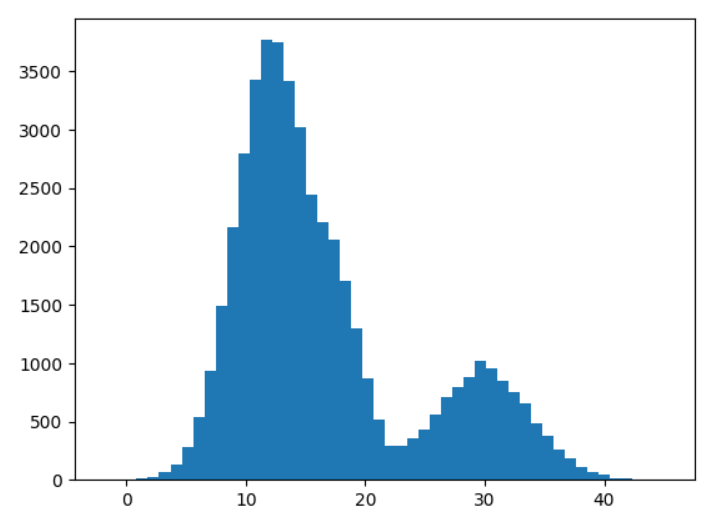
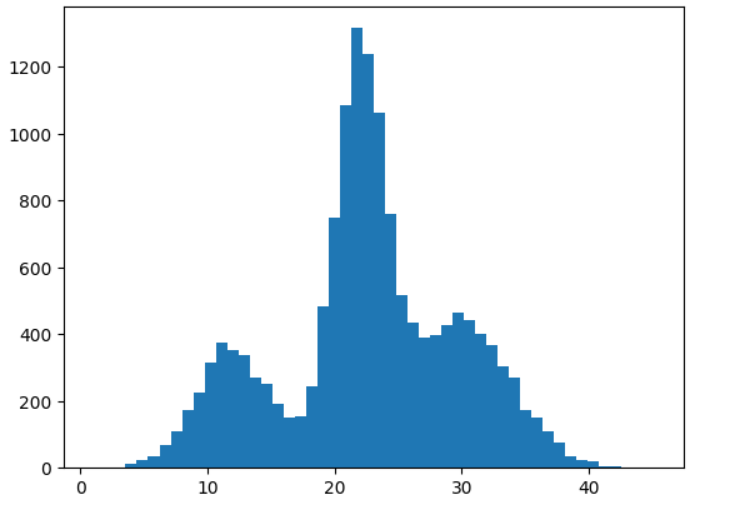
upd

diff --git a/presentations/book.md b/presentations/book.md
@@ -234,7 +234,7 @@ $\{x^{(1)},x^{(2)},…,x^{(m)}\}$
 
 Якщо ваші дані є одновимірними категоріальними, єдиним реальним варіантом для їх візуалізації є використання стовпчастої діаграми. Зверніть увагу, що, виходячи з нашого припущення про те, що порядок точок даних у нашому наборі даних не має значення, єдиною значущою інформацією, якщо ми маємо набір даних типу
 
-$\{cat,dog,dog,rabbit,cat,…\}$
+$\{student,teacher,student,professor,teacher,student,…\}$
 
 буде кількість повторень кожного елемента. Таким чином, ми можемо ефективно узагальнити дані, включивши кількість повторень кожного значення даних (це легко зробити за допомогою класу `collections.Counter`).
 
@@ -243,8 +243,9 @@ $\{cat,dog,dog,rabbit,cat,…\}$
 ```
 import collections
 import matplotlib.pyplot as plt
+import numpy as np
 
-data = np.random.permutation(np.array(["dog"]*10 + ["cat"]*7 + ["rabbit"]*3))
+data = np.random.permutation(np.array(["student"]*15 + ["teacher"]*7 + ["professor"]*3))
 # print(data)
 counts = collections.Counter(data)
 plt.bar(range(len(counts)), list(counts.values()), tick_label=list(counts.keys()))
@@ -263,11 +264,11 @@ plt.bar(range(len(counts)), list(counts.values()), tick_label=list(counts.keys()
 Ось приклад того, як побудувати кругову діаграму:
 
 ```
-data = {"strongly disagree": 5,
-        "slightly disagree": 3,
-        "neutral": 8,
-        "slightly agree": 12,
-        "strongly agree": 9}
+data = {"strongly disagree": 3,
+        "disagree": 8,
+        "neutral": 12,
+        "agree": 11,
+        "strongly agree": 4}
 
 plt.pie(data.values(), labels=data.keys(), autopct='%1.1f%%')
 plt.axis('equal')
@@ -281,10 +282,14 @@ plt.axis('equal')
 
 ```
 np.random.seed(0)
-data = np.concatenate([30 + 4*np.random.randn(10000),
-                       18 + 2*np.random.randn(7000),
-                       12 + 3*np.random.randn(30000)])
+data = np.concatenate([30 + 4*np.random.randn(5000),
+                       22 + 2*np.random.randn(7000),
+                       12 + 3*np.random.randn(3000)])
 plt.hist(data, bins=50)
+
+
+# data = np.concatenate([10 + 5*np.random.randn(10000)])
+# plt.hist(data, bins=50);
 ```
 
 ![histogram](./img/103-3.png)
@@ -298,7 +303,7 @@ plt.hist(data, bins=50)
 
 ```
 x = np.random.randn(1000)
-y = 0.4*x**2 + x + 0.7*np.random.randn(1000)
+y = 0.8*x**3 + x + 1.5*np.random.randn(1000)
 plt.scatter(x,y,s=1)
 ```
 
@@ -311,7 +316,7 @@ plt.scatter(x,y,s=1)
 
 ```
 x = np.random.randn(10000)
-y = 0.4*x**2 + x + 0.7*np.random.randn(10000)
+y = 0.8*x**3 + x + 1.5*np.random.randn(10000)
 #plt.scatter(x,y,s=10)
 
 plt.hist2d(x,y,bins=100);
@@ -339,16 +344,16 @@ plt.plot(x,y)
 
 **Коробкова (Box and whiskers) і скрипкові діаграми (Violin plots) — категоріальні x числові**
 
-Розглянемо простий приклад, де (тільки з вигаданими даними) ми будуємо графік типу домашніх тварин у порівнянні з вагою.
+Розглянемо простий приклад, де (тільки з вигаданими даними) ми будуємо графік учасників навчального процесу та їхній вік.
 
 ```
 import numpy as np
 import matplotlib.pyplot as plt
 import scipy.linalg as la
 
-data= {"dog": 8 + 2*np.random.randn(1000),
-       "cat": 4 + 1*np.random.randn(900),
-       "rabbit": 1 + 0.4*np.random.randn(300)}
+data= {"student": 22 + 1.4*np.random.randn(1000),
+       "teacher": 37 + 2.5*np.random.randn(900),
+       "professor": 65 + 5.5*np.random.randn(300)}
 plt.scatter(np.concatenate([i*np.ones(len(x)) for i,x in enumerate(data.values())]),
             np.concatenate(list(data.values())))
 plt.xticks(range(len(data)), data.keys());
@@ -380,15 +385,15 @@ plt.xticks(range(1,len(data)+1), data.keys())
 
 **Теплова карта (Heatmap) та бульбашкові діаграми (Bubble plots) — категоріальні x категоріальні**
 
-Коли обидва виміри наших 2D-даних є категоріальними, ми маємо ще менше інформації для використання. Знову ж таки, метою буде надання певної інформації про загальну кількість усіх можливих комбінацій між двома наборами даних. Наприклад, розглянемо вигаданий набір даних про тип домашніх тварин та тип будинку:
+Коли обидва виміри наших 2D-даних є категоріальними, ми маємо ще менше інформації для використання. Знову ж таки, метою буде надання певної інформації про загальну кількість усіх можливих комбінацій між двома наборами даних. Наприклад, розглянемо вигаданий набір даних про учасників навчального процесу та їхній улюблений спосіб навчання
 
 ```
-types = np.array([('dog', 'house'), ('dog', 'appt'), 
-                  ('cat', 'house'), ('cat', 'appt'), 
-                  ('rabbit', 'house'), ('rabbit', 'appt')])
+types = np.array([('student', 'offline'), ('student', 'remote'), 
+                  ('teacher', 'offline'), ('teacher', 'remote'), 
+                  ('professor', 'offline'), ('professor', 'remote')])
 data = types[np.random.choice(range(6), 2000, p=[0.4, 0.1, 0.12, 0.18, 0.05, 0.15]),:]
 
-#print(data[100:])
+# print(data[100:])
 
 label_x, x = np.unique(data[:,0], return_inverse=True)
 label_y, y = np.unique(data[:,1], return_inverse=True)
